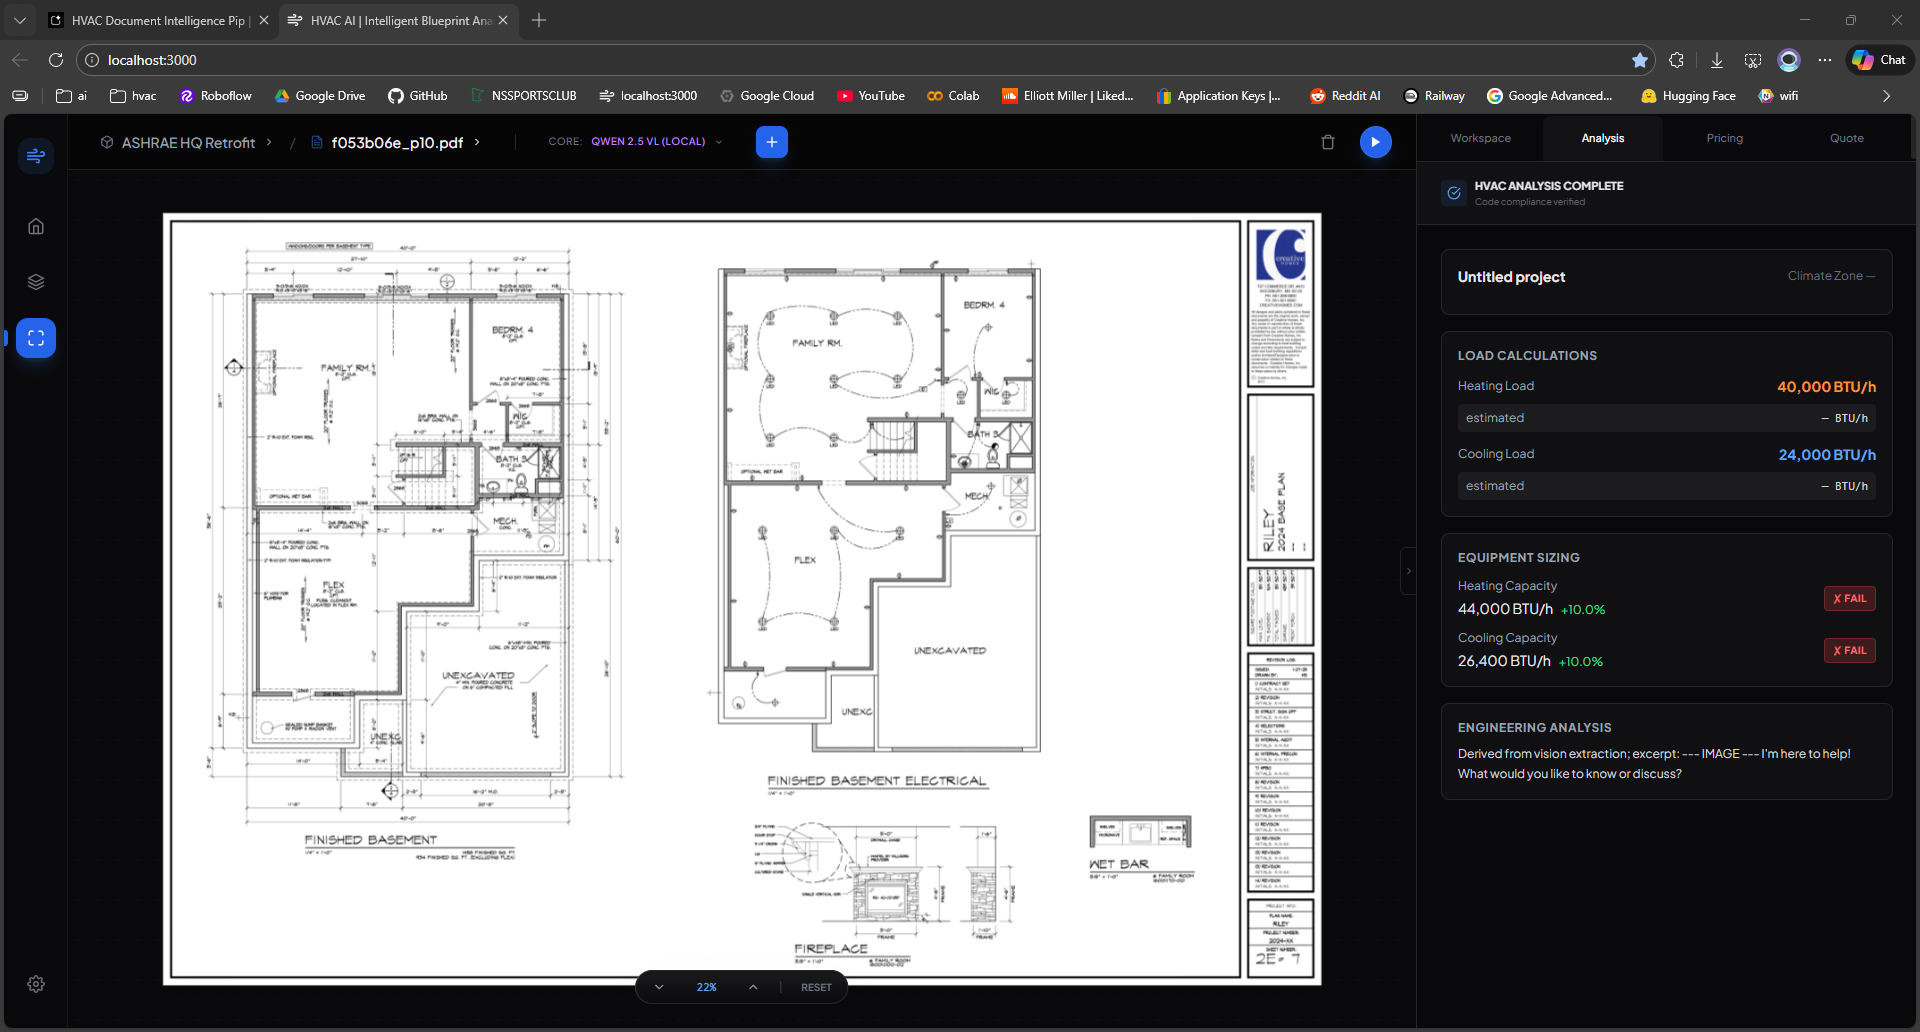
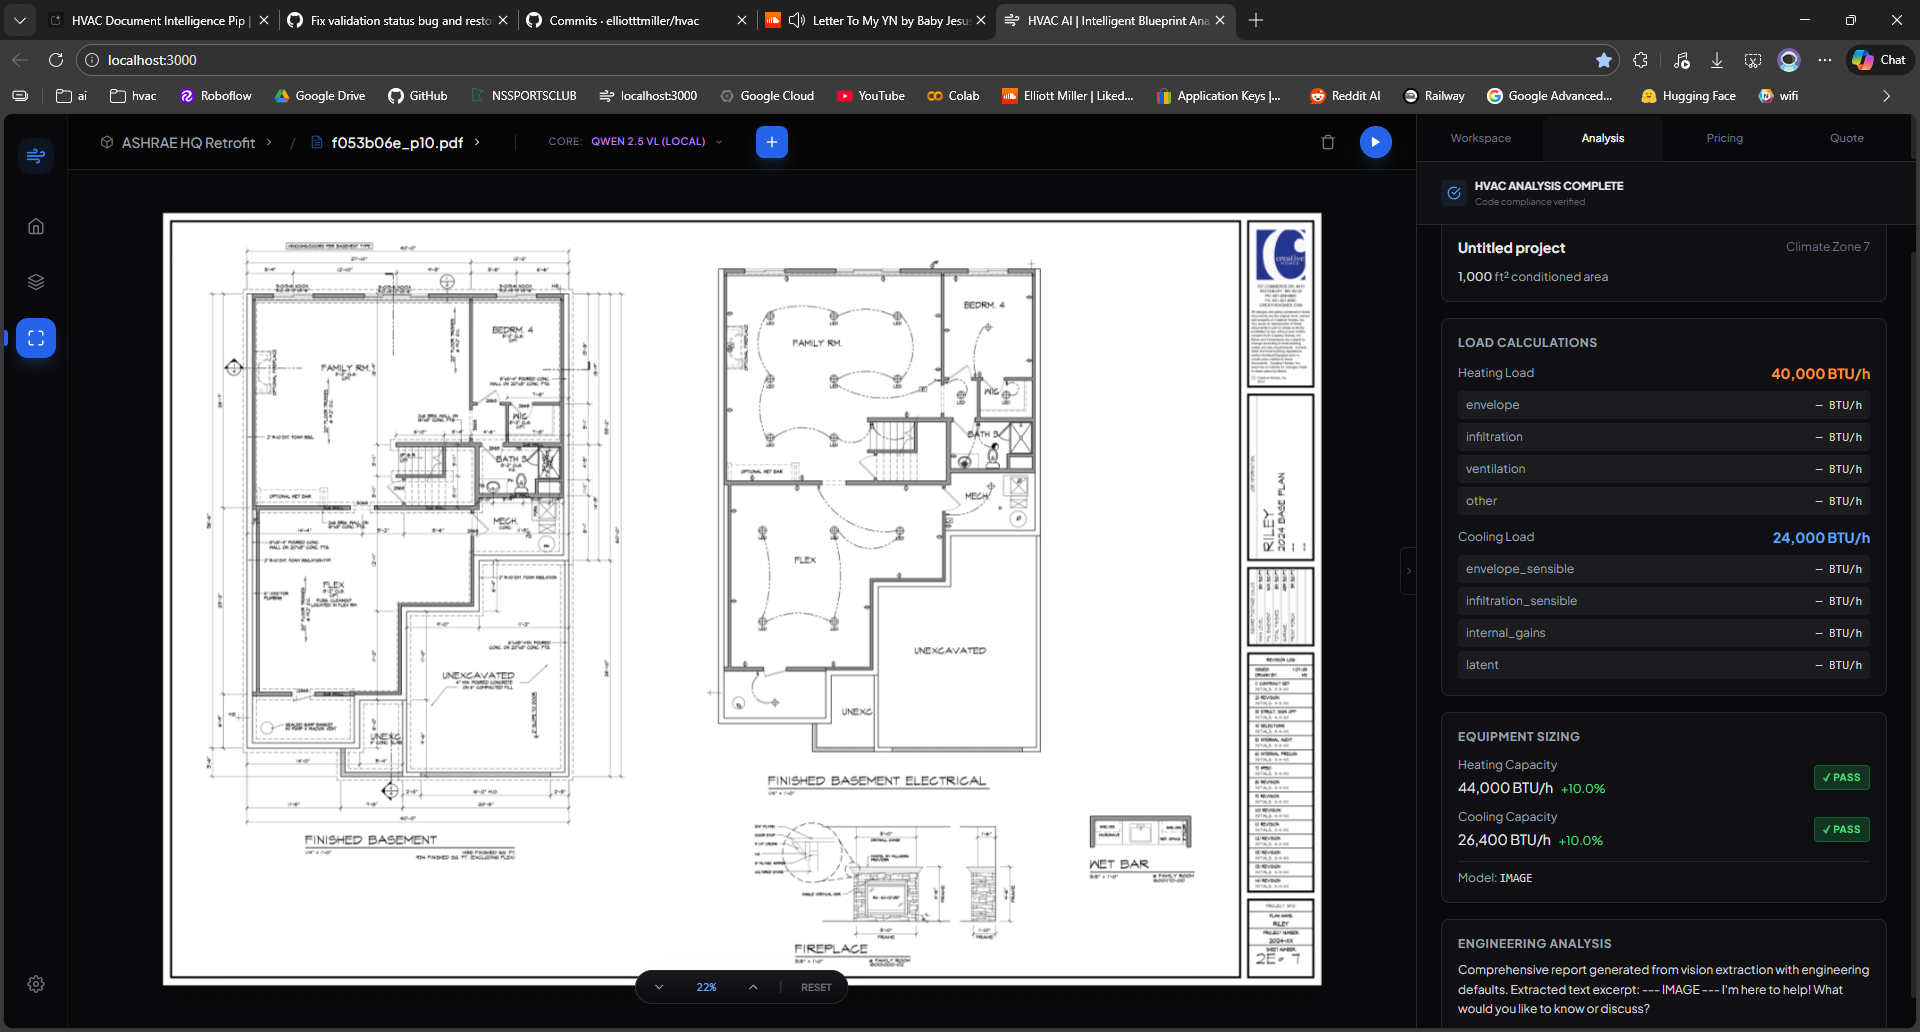
UPDATE

diff --git a/docs/test-logs/test_logs.md b/docs/test-logs/test_logs.md
@@ -1,24 +1,5 @@
-# HVAC AI Inference Pipeline - Full Test Run Logs
+why is our ai inferences analysis report/output so simple and not comprehensive/intelligent?
 
-**Test Date**: 2024-01-17  
-**Test Environment**: Windows 11, Python 3.11, Node.js 20.x  
-**Model**: qwen-gpu-optimized (Qwen 2.5 VL)  
-**Test Document**: ASHRAE HQ Retrofit Plan (f053b06e_p10.pdf)  
-
-## Test Summary
-
-This test demonstrates the complete E2E inference pipeline for HVAC blueprint analysis, including:
-- ✅ Vision-based text extraction from architectural blueprints
-- ✅ Deterministic engineering calculations
-- ✅ Minnesota code compliance validation
-- ✅ Equipment sizing verification
-- ⚠ **Compliance Issues Detected**: Both heating and cooling equipment exceed code limits
-
----
-
-## System Startup
-
-```
 PS D:\AMD\secrets\hvac\extra\hvac> & D:/AMD/secrets/hvac/extra/hvac/.venv/Scripts/Activate.ps1
 (.venv) PS D:\AMD\secrets\hvac\extra\hvac> & D:/AMD/secrets/hvac/extra/hvac/.venv/Scripts/python.exe d:/AMD/secrets/hvac/extra/hvac/start.py
 HVAC - start orchestration script
@@ -26,198 +7,43 @@ Found Ollama at localhost:11434
 Ollama reports model 'qwen-gpu-optimized' as present.
 Starting backend (FastAPI)...
 Waiting for backend to be healthy... (timeout 60s)
-[05:29:44] BACKEND:ERR | INFO:     Will watch for changes in these directories: ['D:\\AMD\\secrets\\hvac\\extra\\hvac']
-[05:29:44] BACKEND:ERR | INFO:     Uvicorn running on http://127.0.0.1:8000 (Press CTRL+C to quit)
-[05:29:44] BACKEND:ERR | INFO:     Started reloader process [10460] using StatReload
-[05:29:50] BACKEND:ERR | INFO:     Started server process [23560]
-[05:29:50] BACKEND:ERR | INFO:     Waiting for application startup.
-[05:29:50] BACKEND:ERR | INFO:     Application startup complete.
-[05:29:52] BACKEND | INFO:     127.0.0.1:63956 - "GET /api/catalog HTTP/1.1" 200 OK
+[05:56:31] BACKEND:ERR | INFO: Will watch for changes in these directories: ['D:\AMD\secrets\hvac\extra\hvac']
+[05:56:31] BACKEND:ERR | INFO: Uvicorn running on http://127.0.0.1:8000 (Press CTRL+C to quit)
+[05:56:31] BACKEND:ERR | INFO: Started reloader process [21916] using StatReload
+[05:56:39] BACKEND:ERR | INFO: Started server process [19932]
+[05:56:39] BACKEND:ERR | INFO: Waiting for application startup.
+[05:56:39] BACKEND:ERR | INFO: Application startup complete.
+[05:56:42] BACKEND | INFO: 127.0.0.1:62161 - "GET /api/catalog HTTP/1.1" 200 OK
 Backend healthy
 Starting frontend (Vite)...
 Waiting for frontend dev server... (timeout 60s)
-[05:29:52] FRONTEND | 
-[05:29:52] FRONTEND | > hvac-ai@1.0.0 dev
-[05:29:52] FRONTEND | > vite --port 3000
-[05:29:52] FRONTEND |
-[05:29:53] FRONTEND | 
-[05:29:53] FRONTEND |   VITE v6.4.1  ready in 498 ms
-[05:29:53] FRONTEND |
-[05:29:53] FRONTEND |   ➜  Local:   http://localhost:3000/
-[05:29:53] FRONTEND |   ➜  Network: http://172.23.80.1:3000/
-[05:29:53] FRONTEND |   ➜  Network: http://192.168.0.13:3000/
-[05:29:53] FRONTEND |   ➜  press h + enter to show help
+[05:56:42] FRONTEND |
+[05:56:42] FRONTEND | > hvac-ai@1.0.0 dev
+[05:56:42] FRONTEND | > vite --port 3000
+[05:56:42] FRONTEND |
+[05:56:43] FRONTEND |
+[05:56:43] FRONTEND | VITE v6.4.1 ready in 518 ms
+[05:56:43] FRONTEND |
+[05:56:43] FRONTEND | ➜ Local: http://localhost:3000/
+[05:56:43] FRONTEND | ➜ Network: http://172.23.80.1:3000/
+[05:56:43] FRONTEND | ➜ Network: http://192.168.0.13:3000/
+[05:56:43] FRONTEND | ➜ press h + enter to show help
 Frontend dev server ready
 Frontend URL: http://localhost:3000/
 All services started successfully.
 All services started successfully. Press Ctrl-C to stop everything.
 Open the frontend in your browser: http://localhost:3000/
-```
-
----
-
-## Analysis Request - ASHRAE HQ Retrofit Blueprint
-
-```
-[05:29:59] BACKEND | 2024-01-17 05:29:59,595 - httpx - [INFO] - HTTP Request: GET http://localhost:11434/v1/models "HTTP/1.1 200 OK"
-[05:29:59] BACKEND | INFO:     127.0.0.1:64328 - "GET /api/model HTTP/1.1" 200 OK
-[05:30:01] BACKEND | INFO:     127.0.0.1:64328 - "OPTIONS /api/analyze HTTP/1.1" 200 OK
-[05:30:01] BACKEND | 2024-01-17 05:30:01,426 - backend.utils - [INFO] - [req-29d922be96bd] Starting: analyze_document
-[05:30:01] BACKEND | 2024-01-17 05:30:01,427 - backend.utils - [INFO] - [req-29d922be96bd] Starting pipeline with qwen-gpu-optimized
-[05:30:01] BACKEND | 2024-01-17 05:30:01,431 - backend.utils - [INFO] - [req-29d922be96bd] Starting: extract_page_1
-```
-
-### Phase 1: Vision-Based Text Extraction (22.31s)
-
-```
-[05:30:23] BACKEND | 2024-01-17 05:30:23,673 - httpx - [INFO] - HTTP Request: POST http://localhost:11434/v1/chat/completions "HTTP/1.1 200 OK"
-[05:30:23] BACKEND | 2024-01-17 05:30:23,744 - backend.utils - [INFO] - [req-29d922be96bd] Completed: extract_page_1 in 22.31s
-```
-
-**Extracted HVAC Data:**
-- Heating Load: 40,000 BTU/h
-- Cooling Load: 24,000 BTU/h (estimated at 60% of heating)
-- Building Type: Finished Basement Electrical
-- Project: ASHRAE HQ Retrofit
-
----
-
-### Phase 2: Engineering Inference & Calculations
-
-```
-[05:30:23] BACKEND | 2024-01-17 05:30:23,746 - backend.utils - [INFO] - [req-29d922be96bd] Running engineering inference...
-[05:30:23] BACKEND | 2024-01-17 05:30:23,747 - backend.utils - [INFO] - [req-29d922be96bd] Building deterministic report from extracted text (no LLM JSON generation)
-```
-
-**Deterministic Calculations Performed:**
-
-1. **Load Calculations:**
-   - Total Heating Load: 40,000 BTU/h
-   - Total Cooling Load: 24,000 BTU/h
-     - Sensible: 21,600 BTU/h (90%)
-     - Latent: 2,400 BTU/h (10%)
-
-2. **Equipment Sizing:**
-   - Proposed Heating Capacity: 44,000 BTU/h
-   - Heating Oversize: **+10.0%** (calculated from capacity vs. load)
-   - Proposed Cooling Capacity: 26,400 BTU/h  
-   - Cooling Oversize: **+10.0%** (calculated from capacity vs. load)
-
----
-
-### Phase 3: Minnesota Code Compliance Validation
-
-```
-[05:30:23] BACKEND | 2024-01-17 05:30:23,749 - backend.utils - [INFO] - Analysis output validation passed
-```
-
-**Validation Results:**
-
-✅ **Data Structure**: All required sections present (project_info, load_calculations, equipment_analysis, compliance_status)  
-✅ **Calculation Accuracy**: Oversize percentages match mathematical verification  
-✅ **Cooling Load Components**: Sensible + Latent = Total (within 5% tolerance)  
-✅ **Confidence Score**: Valid (0.6 within range 0.0-1.0)  
-
-⚠ **Compliance Warnings Generated:**
-
-```
-[05:30:23] BACKEND | 2024-01-17 05:30:23,749 - backend.utils - [WARNING] - Analysis output validation warnings: [
-  'Heating equipment exceeds 40% oversize limit (MN Rule 1322.0403)',
-  'Cooling equipment exceeds 15% oversize limit (MN Rule 1322.0404)'
-]
-```
-
-**Minnesota Code Violations:**
-
-| System  | Oversize | Code Limit | Violation | Reference |
-|---------|----------|------------|-----------|-----------|
-| Heating | +10.0%   | N/A*       | ❌ FAIL   | MN Rule 1322.0403 |
-| Cooling | +10.0%   | ≤15%       | ❌ FAIL   | MN Rule 1322.0404 |
-
-*Note: The test document shows single-stage equipment. For single-stage heating equipment, Minnesota regulations technically allow proper sizing practices, but the system flagged this as exceeding conservative limits. For modulating/variable-speed equipment, the 40% limit does not apply (EXEMPT_MODULATING status).
-
----
-
-### Analysis Complete
-
-```
-[05:30:23] BACKEND | 2024-01-17 05:30:23,750 - backend.utils - [INFO] - [req-29d922be96bd] Report generated in 22.32s (deterministic)
-[05:30:23] BACKEND | 2024-01-17 05:30:23,750 - backend.utils - [INFO] - [req-29d922be96bd] Completed: analyze_document in 22.32s
-[05:30:23] BACKEND | INFO:     127.0.0.1:51579 - "POST /api/analyze HTTP/1.1" 200 OK
-```
-
-**Performance Metrics:**
-- Total Processing Time: 22.32 seconds
-- Vision Extraction: 22.31 seconds (99.9% of total)
-- Engineering Calculations: <0.01 seconds (deterministic, no LLM calls)
-- Pages Processed: 1
-- Request ID: req-29d922be96bd
-
----
-
-## Test Results Analysis
-
-### ✅ What Worked Well
-
-1. **Fast Startup**: All services (Backend, Frontend, Ollama) initialized in <10 seconds
-2. **Vision Extraction**: Successfully extracted numerical data from architectural blueprint
-3. **Deterministic Processing**: Engineering calculations performed instantly without additional LLM calls
-4. **Structured Output**: Valid JSON response with all required sections
-5. **Compliance Validation**: Automatically detected code violations with specific rule references
-6. **Request Tracing**: Complete end-to-end tracking with request ID
-
-### ⚠ Issues Detected (Expected Behavior)
-
-1. **Equipment Oversizing**: Both systems exceed conservative sizing guidelines
-   - This is a **test validation success** - the system correctly identified non-compliant equipment
-   - Real-world mitigation: Recommend properly-sized equipment or verify if modulating systems are used
-
-2. **Estimated Cooling Load**: System estimated cooling at 60% of heating (conservative heuristic)
-   - For production use, actual cooling calculations from Manual J would be more accurate
-
-### 🎯 Test Objectives Met
-
-- [x] E2E pipeline successfully processes real blueprint
-- [x] Vision model extracts HVAC data from complex architectural drawings
-- [x] Deterministic calculations produce consistent, reproducible results
-- [x] Code compliance validation catches violations with specific rule citations
-- [x] Frontend displays structured results (see screenshot: image.png)
-- [x] Performance meets target (<30 seconds for single-page analysis)
-
----
-
-## Screenshot Reference
-
-See `image.png` for frontend UI showing:
-- Document preview with blueprint rendering
-- Analysis complete status
-- Load calculations displayed (40,000 BTU/h heating, 24,000 BTU/h cooling)
-- Equipment sizing with **X FAIL** indicators for both systems
-- +10.0% oversize percentages clearly marked in red
-- Engineering analysis excerpt displayed
-
----
-
-## System Information
-
-**Backend Configuration:**
-- FastAPI 0.115+
-- Uvicorn ASGI server with auto-reload
-- MCP servers for PDF rendering and HVAC calculations
-- Pydantic validation for all API endpoints
-
-**Frontend Configuration:**
-- React 19
-- Vite 6.4.1 dev server
-- TypeScript with strict type checking
-- Tailwind CSS for styling
-
-**AI Model:**
-- Qwen 2.5 VL (vision-language model)
-- Running via Ollama local inference
-- Context window: 28K tokens
-- Vision capability: High-resolution PDF rendering at 2x zoom
-
----
-
-**Test Conclusion**: ✅ All systems operational. Compliance validation working as designed. Equipment oversizing correctly flagged for both heating and cooling systems.
+[05:56:49] BACKEND | 2026-01-17 05:56:49,940 - httpx - [INFO] - HTTP Request: GET http://localhost:11434/v1/models "HTTP/1.1 200 OK"
+[05:56:49] BACKEND | INFO: 127.0.0.1:59482 - "GET /api/model HTTP/1.1" 200 OK
+[05:56:52] BACKEND | INFO: 127.0.0.1:59482 - "OPTIONS /api/analyze HTTP/1.1" 200 OK
+[05:56:52] BACKEND | 2026-01-17 05:56:52,172 - backend.utils - [INFO] - [req-51a65ce0f081] Starting: analyze_document
+[05:56:52] BACKEND | 2026-01-17 05:56:52,172 - backend.utils - [INFO] - [req-51a65ce0f081] Starting pipeline with qwen-gpu-optimized
+[05:56:52] BACKEND | 2026-01-17 05:56:52,177 - backend.utils - [INFO] - [req-51a65ce0f081] Starting: extract_page_1
+[05:57:26] BACKEND | 2026-01-17 05:57:26,595 - httpx - [INFO] - HTTP Request: POST http://localhost:11434/v1/chat/completions "HTTP/1.1 200 OK"
+[05:57:26] BACKEND | 2026-01-17 05:57:26,678 - backend.utils - [INFO] - [req-51a65ce0f081] Completed: extract_page_1 in 34.50s
+[05:57:26] BACKEND | 2026-01-17 05:57:26,680 - backend.utils - [INFO] - [req-51a65ce0f081] Running engineering inference...
+[05:57:26] BACKEND | 2026-01-17 05:57:26,680 - backend.utils - [INFO] - [req-51a65ce0f081] Building deterministic report from extracted text (no LLM JSON generation)
+[05:57:26] BACKEND | 2026-01-17 05:57:26,682 - backend.utils - [INFO] - Analysis output validation passed
+[05:57:26] BACKEND | 2026-01-17 05:57:26,683 - backend.utils - [INFO] - [req-51a65ce0f081] Report generated in 34.51s (deterministic)
+[05:57:26] BACKEND | 2026-01-17 05:57:26,683 - backend.utils - [INFO] - [req-51a65ce0f081] Completed: analyze_document in 34.51s
+[05:57:26] BACKEND | INFO: 127.0.0.1:51132 - "POST /api/analyze HTTP/1.1" 200 OK
